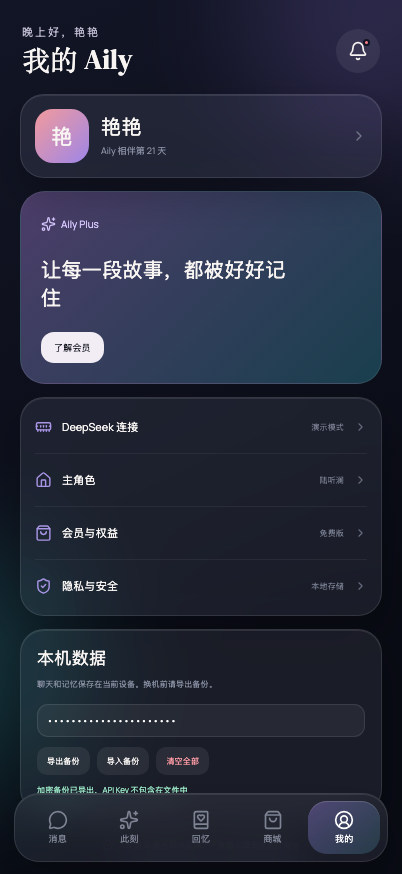
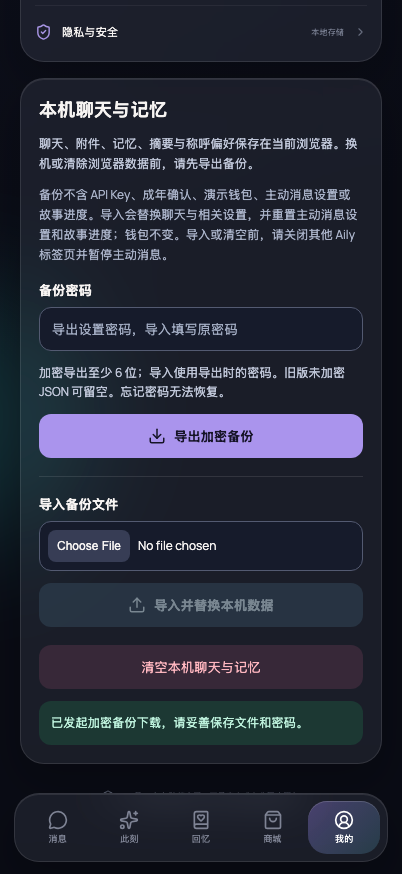
docs: refresh mobile evidence after integrated main changes

diff --git a/docs/evidence/mobile-shell/README.md b/docs/evidence/mobile-shell/README.md
@@ -2,12 +2,12 @@
 
 ## 对比条件
 
-- **Before baseline**：`41c9c98`（本次开发起点，现有 Web 原型），从 Git archive 的隔离目录实际启动。
-- **After implementation**：`1df32e80df836efab6b237af05d0ff50195ca9f2`，实际生产构建。
-- 两组 Web 对比均为 Chromium、402 × 874 CSS px、DPR 1、深色主题、中文、全新隔离浏览器上下文。
-- 场景相同：首次欢迎页，以及完成默认角色引导后“我的”页面、输入同一测试密码并成功下载加密备份后的状态。
-- 密码仅为隔离测试数据；没有真实聊天、API Key 或私有来源消息。截图未经设计重绘。
-- 视觉未改版，浏览器 Before/After 相同是预期结果。原型此前没有原生工程，**浏览器截图不冒充旧 iOS/Android 安装包**；新增壳的实际启动另列在下方。原生分享/权限的真机验证未由浏览器截图证明。
+- **Before baseline**：`41c9c98`，本票原始开发起点的 Web 原型，从 Git archive 隔离目录实际启动，未重绘或修补源码。
+- **After implementation**：`5dc086717f8f3e63964d083bd94d348f1383b85e`，整合当前 main 后的实际应用源码；对应生产资源已完成双端编译。
+- 两组 Web 对比均为 Chromium、402 × 874 CSS px、DPR 1、深色主题、中文、减少动态效果、全新隔离上下文；同一 Vite 开发运行方式，不是设计稿。
+- 相同场景：首次欢迎页；然后写入相同的隔离测试设置（默认陆听澜、引导完成、测试成年/AI 告知确认）进入“我的”，输入相同测试密码并下载加密备份，滚动到备份面板。测试设置只用于这两个独立浏览器上下文，不改用户数据、不调用模型。
+- 本票开发期间 main 合入了九步引导、安全告知、语言设置和新的备份面板。因此 After 的这些界面差异来自已合入 main 的功能，而非本票重新选择视觉设计；本票沿用它们并适配原生导出。Before 仍为原始请求时的真实实现，**不是伪造一个不存在的旧原生包**。
+- 截图不包含真实聊天、API Key 或私有来源消息。浏览器截图不能证明原生分享、文件接收和录音权限已经通过真机验收。
 
 ## Before — baseline `41c9c98`
 
@@ -15,7 +15,7 @@
 
 ![Before 浏览器备份下载后](<before-backup.png>)
 
-## After — implementation `1df32e8`
+## After — implementation `5dc0867`
 
 ![After 欢迎页](<after-welcome.png>)
 
@@ -23,14 +23,14 @@
 
 ## 原生启动证据 — 同一 After implementation
 
-iPhone 17 Pro / iOS 26.5 Simulator，1206 × 2622 物理 px（402 × 874 pt），同一首次欢迎状态。通过 `xcrun simctl install` 安装从本次工程编译的 App.app 并启动 `com.aily.app` 后捕获；展示的是应用本地打包资源，不是浏览器、远端开发页或静态设计图。系统状态栏和 WebKit 字体差异属于实际原生运行环境。
+隔离 iPhone 17 Pro / iOS 26.5 Simulator，1206 × 2622 物理 px（402 × 874 pt），首次欢迎状态。安装从同一 After 源码编译的 App.app 并启动 `com.aily.app` 后直接捕获；这是应用本地打包资源，而非浏览器、远端开发页或静态设计图。系统状态栏、字体和系统语言遵循实际 Simulator 环境。
 
 ![After iOS 本地壳实际启动](<ios-welcome.png>)
 
-Android 验证到 Debug APK 与 release AAB 编译成功；没有 Android 模拟器/真机运行截图，不将编译通过描述为设备权限、分享及媒体能力已验收。
+Android 验证到 Debug APK 与 release AAB 编译成功，另通过 lintDebug 和 host unit tests；没有 Android 模拟器/真机运行截图，不把编译与 Mock 测试描述为设备能力验收。
 
 ## 复现
 
-[截图脚本](<../../../scripts/capture-mobile-shell.mjs>) 可通过 `BEFORE_URL` / `AFTER_URL` 指定两个**已经运行的真实应用版本**，不会自动伪造 baseline。默认本次隔离 baseline 端口 4186，生产 After 端口 4198；执行 `node scripts/capture-mobile-shell.mjs`。
+[截图脚本](<../../../scripts/capture-mobile-shell.mjs>) 可用 `BEFORE_URL` / `AFTER_URL` 指定两个已运行的真实 Vite 应用版本（脚本在隔离页面中通过源模块设置本机测试状态）。默认 baseline 端口 4186、After 端口 4198；执行 `node scripts/capture-mobile-shell.mjs`。请勿指向日常使用的浏览器上下文；脚本自行创建独立上下文。
 
-原生构建、安装产物位置和正式分发限制见[移动端打包说明](<../../mobile-packaging.md>)。
+原生构建、产物位置和正式分发限制见[移动端打包说明](<../../mobile-packaging.md>)。

diff --git a/docs/mobile-packaging.md b/docs/mobile-packaging.md
@@ -67,7 +67,7 @@ npm run mobile:bundle:android
 ## 首发前仍需发行方完成
 
 - 在 **iOS 真机和 Android 目标设备** 验证首次启动、系统返回、键盘/安全区域、旋转、文件选择与导入、分享后真正保存、录音授权/拒绝/回放、后台恢复、本机持久化、低存储及 HTTPS 模型流式请求。模拟器编译与浏览器测试不能替代权限、媒体和文件行为的真机验收。
-- 录音、图片和备份仍是本机原型功能；没有模型视觉、语音听写或实时通话。不同厂商 WebView、iOS 版本可能有差异，不承诺全部设备能力已经通过验收。
+- 录音、图片和备份仍是本机原型功能；没有模型视觉、语音听写或实时通话。不同厂商 WebView、iOS 版本可能有差异，不承诺全部设备能力已经通过验收。原生系统分享适配在本票覆盖加密备份；已合入 main 的回忆卡 PNG、网页邀请等仍沿用各自 Web 能力与降级提示，需单独在目标设备验证。
 - 现有 AppIcon / launch 资源为 Capacitor 模板资源，正式商店需要产品图标与截图。原型的商城余额与送礼不扣款、没有真实 IAP 或订阅权益。
 - 完成双方商店的隐私声明、数据收集披露、年龄分级、AI 内容安全、支付/订阅及恢复规则等审核要求。保持用户自带 Key；公开分发前不得在客户端塞入生产默认 Key。
 
